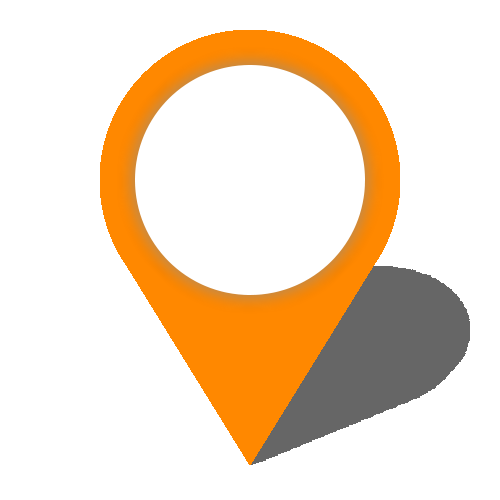
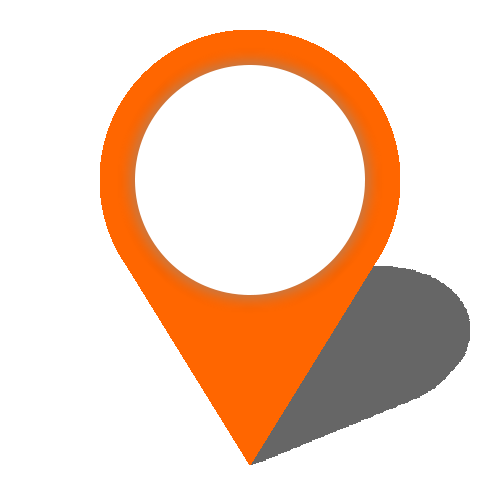
pincolorchange

Changed region(s): [[0.18, 0.06, 0.81, 0.93]]

diff --git a/app/index.jsx b/app/index.jsx
@@ -117,7 +117,7 @@ const TrackUserMapView = () => {
             description="ここでアプリは作られていない"
           >
             <Image
-          source={require('./image/pin_green.png')}
+          source={require('./image/pin_yellow.png')}
           style={styles.markerImage}
         />
             </Marker>
